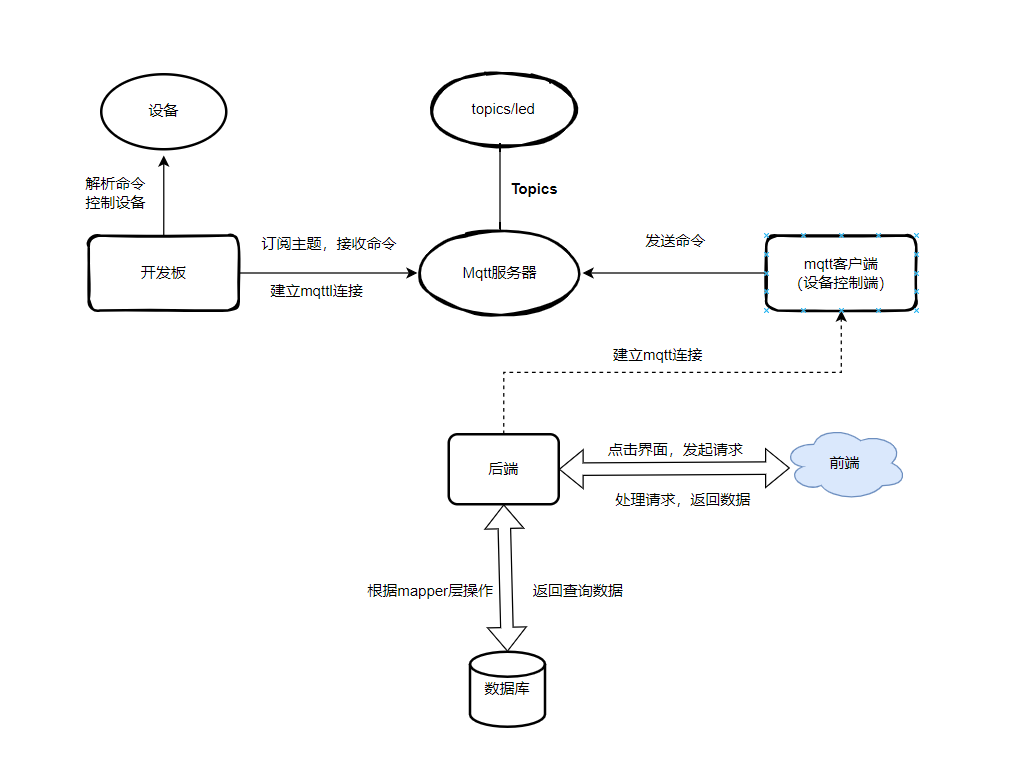
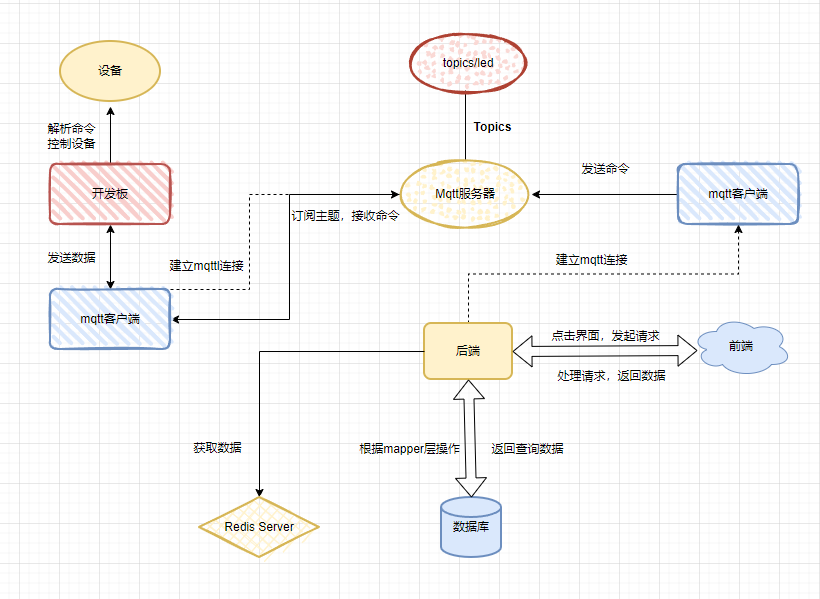
improve readme.md file

diff --git a/IotBackend/src/main/java/cn/edu/swjtu/service/impl/RecordServiceImpl.java b/IotBackend/src/main/java/cn/edu/swjtu/service/impl/RecordServiceImpl.java
@@ -53,7 +53,7 @@ public class RecordServiceImpl implements RecordService {
                     CommandInfo c = mapper.getUserNewestActivity(u.getUsername());
                     item.put("command",c.getCommand());
                     item.put("timestamp", c.getDate());
-                    item.put("summary",c.getOperator()+ " " + c.getCommand() + " " -m + c.getDeviceName());
+                    item.put("summary",c.getOperator()+ " " + c.getCommand() + " " + c.getDeviceName());
                 }catch (Exception e){
                     e.printStackTrace();
                 }

diff --git a/IotBackend/src/main/java/cn/edu/swjtu/config/OpenApiConfig.java b/IotBackend/src/main/java/cn/edu/swjtu/config/OpenApiConfig.java
@@ -1,0 +1,19 @@
+package cn.edu.swjtu.config;
+
+import io.swagger.v3.oas.models.OpenAPI;
+import io.swagger.v3.oas.models.info.Info;
+import org.springframework.context.annotation.Bean;
+import org.springframework.context.annotation.Configuration;
+
+@Configuration
+public class OpenApiConfig {
+
+    @Bean
+    public OpenAPI springOpenAPI() {
+        return new OpenAPI().info(new Info() //
+                .title("IECMS Lite API") //
+                .description("智能设备控制与管理系统API设计文档") //
+                .version("0.0.1"));
+    }
+
+}

diff --git a/README.md b/README.md
@@ -1,16 +1,31 @@
-## 项目需求
+## 项目背景
+随着互联网的日益发展，各类智能终端已遍布人们的日常生活。本项目致力于建立一个从嵌入式设备到互联网网页的实时控制链，旨在通过提供一系列可视化的用户接口以实现人们对各类嵌入式设备的控制。同时为建立一套更加贴合主流的智能家居打下一个基础。下面我将对本项目目前所具备的功能，运行的基本原理，开发工具的基本版本以及接口设计的基本原则等做一个简要的介绍。
 
-- 设备控制
-  - 设备开关
-  - 设置温度
-- 设备管理
-  - 告警
-  - 增删改查
-- 数据统计
-  - 统计图展示
-- 用户管理
-  - 增删改查
+## 项目基础功能
 
+- [x] 小组用户信息的查看
+- [x] 小组活动的情况查看，内含对设备的各类操作日志
+- [x] 小组设备的增删改查
+- [x] 小组设备的添加审核
+- [x] 实时监控查看
+- [x] 温湿度传感器阈值设置
+- [x] 关照传感器阈值设置
+- [x] LED灯控制
+- [x] 蜂鸣器控制
+- [x] 设备延时打开
+- [x] 设备延时关闭
+- [x] 设备基础模型展示（效果不佳）
+- [x] 设备地理位置显示
+- [x] 温湿度传感器数据采集
+- [x] 光照传感器数据采集
+- [x] 各类数据处理与图表展示
+- [x] 用户基础信息修改
+- [x] 用户各类操作信息展示，内含对设备的各类操作日志 
+- [x] 设备告警控制 
+- [ ] 设备建模
+- [ ] 设备监控视频rtsp推流
+- [ ] pcb绘制和制作
+- [ ] 更多设备添加
 
 ## 项目架构设计图
 
@@ -18,16 +33,19 @@
 
 ## MQTT消息路径设计
 
-|               设备               |             路径              |
-| :------------------------------: | :---------------------------: |
-|        LED灯上行数据路径         |      `devTopic/led/pub`       |
-|        LED灯下行数据路径         |      `devTopic/led/sub`       |
-|        蜂鸣器上行数据路径        |      `devTopic/beep/pub`      |
-|        蜂鸣器下行数据路径        |      `devTopic/beep/sub`      |
-| 光照传感器(`BH1750`)上行数据路径 |  `devTopic/lightSensor/pub`   |
-|     温湿度传感器上行数据路径     |    `devTopic/htSensor/pub`    |
-|      红外传感器上行数据路径      | `devTopic/infraredSensor/pub` |
-|      红外传感器下行数据路径      | `devTopic/infraredSensor/sub` |
+|               设备               |            路径            |
+| :------------------------------: | :------------------------: |
+|        LED灯上行数据路径         |     `devTopic/pub/led`     |
+|        LED灯下行数据路径         |     `devTopic/sub/led`     |
+|        蜂鸣器上行数据路径        |     `devTopic/pub/led`     |
+|        蜂鸣器下行数据路径        |     `devTopic/sub/led`     |
+| 光照传感器(`BH1750`)上行数据路径 | `devTopic/pub/lightSensor` |
+| 光照传感器(`BH1750`)上行数据路径 | `devTopic/sub/lightSensor` |
+|     温湿度传感器上行数据路径     |  `devTopic/pub/htSensor`   |
+|     温湿度传感器上行数据路径     |  `devTopic/sub/htSensor`   |
+|  其他设备上行数据路径（待添加）  | `devTopic/sub/deviceName`  |
+|  其他设备上行数据路径（待添加）  | `devTopic/pub/deviceName`  |
+
 
 ## MQTT中设备发送消息`json`格式设置
 
@@ -64,33 +82,226 @@ command:[
 
 通过这一步的封装，我们就可以在从前端网页界面对设备进行控制时，将对应的控制信息封装在数据中，当到达后端时在重新进行解析，`sub`或者`pub`的时候自动的获取或者发送所需要的数据。
 
-## 设备信息数据库设计
+## 数据库设计
 
-### led数据表设计规定
-|  名称  |   类型    |
-| :----: | :-------: |
-| status | vchar(32) |
+### user数据表设计规定
+|     名称      |    类型    |
+| :-----------: | :--------: |
+|   username    | vchar(30)  |
+| password_hash | vchar(512) |
+|    avatar     | vchar(100) |
+|     roles     | vchar(40)  |
+|   group_id    |    int     |
+|     email     | vchar(60)  |
+|      uid      |   bigint   |
 
-### 温湿度数据表设计规定
-|    名称    |   类型    |
-| :--------: | :-------: |
-| temperture |    int    |
-|  humidity  |    int    |
-|   status   | vchar(32) |
+### device数据表设计规定
+|    名称     |   类型    |
+| :---------: | :-------: |
+|     did     |    int    |
+|  group_id   |    int    |
+| deviceName  | vchar(32) |
+| insert_flag |    int    |
+|  longitude  |   float   |
+|  latitude   |   float   |
+|   creator   | vchar(60) |
+|    type     | vchar(40) |
+|    date     | datetime  |
+|   status    | vchar(8)  |
+
+更多详细设计请看项目对应数据库文件
 
 
-## 项目初步分工
+## 技术结构
 
-| 成员   | 任务                         |
-| ------ | ---------------------------- |
-| 白仕博 | 嵌入式，mqtt协议，前端，文档 |
-| 杨宇轩 | 后端 ，文档                  |
-| 周天伦 | 前端 ，文档                  |
-| 丁晨旭 | 前端 ，文档，嵌入式          |
+|          | 技术栈                                |
+| -------- | ------------------------------------- |
+| 前端     | `vue2,ElementUI,threejs,amap,echarts` |
+| 后端     | `springboot`                          |
+| 数据库   | `mysql8.0.35`                         |
+| 数据缓存 | `redis5.0.14.1`                       |
+| MQTT服务 | `emqx5.3.2`                           |
+| 嵌入式端 | `stm32f103c8t6,dht11,bh1750,beep,led` |
 
-## 后续功能开发
-1. 增加前端主界面展示功能，将设备，消息等用一个卡片或轮播图来展示，用户可从该界面直接跳转到对应的详情界面。
-2. 增加数据库的复杂性设计，当前数据库的设计还过于简单，建议增加对数据库复杂性的设计
-3. 增加对设备列表，设备动作等数据的查询功能。
-4. 增加设备监控画面展示功能
-5. 预警温湿度设置功能开发
+## `Api`设计
+
+### 用户登录请求
+POST /user/login
+
+##### 请求
+
+| 参数     | 说明     | 示例                                                             |
+| -------- | -------- | ---------------------------------------------------------------- |
+| username | 用户昵称 | echo                                                             |
+| password | 用户密码 | def823239cd714d6f18cda2a2b9e1369046125716c43d27a1256753ac72164b0 |
+
+##### 响应
+| 参数 | 说明                                 | 示例    |
+| ---- | ------------------------------------ | ------- |
+| code | 20000登录成功，20001错误             |         |
+| type | 本次请求是否成功,success/failure     | failure |
+| msg  | 本次请求携带的信息，显示指明成功出错 | success |
+| data | 请求返回的自定义数据信息             |         |
+
+### 用户信息请求
+GET /user/info
+
+##### 请求
+| 参数  | 说明     | 示例 |
+| ----- | -------- | ---- |
+| token | 识别用户 |      |
+
+
+##### 响应
+| 参数 | 说明                                             | 示例    |
+| ---- | ------------------------------------------------ | ------- |
+| code | 20000登录成功，20001错误                         |         |
+| type | 本次请求是否成功,success/failure                 | failure |
+| msg  | 本次请求携带的信息，显示指明成功出错             | success |
+| data | 请求返回的自定义数据信息，包括头像地址和用户名等 |         |
+
+### 设备信息请求
+GET device/all
+
+##### 请求
+| 参数    | 说明     | 示例 |
+| ------- | -------- | ---- |
+| pageNum | 请求页码 | 2    |
+
+##### 响应
+| 参数 | 说明                                 | 示例    |
+| ---- | ------------------------------------ | ------- |
+| code | 20000登录成功，20001错误             |         |
+| type | 本次请求是否成功,success/failure     | failure |
+| msg  | 本次请求携带的信息，显示指明成功出错 | success |
+| data | 该页所有设备信息                     |         |
+
+### 设备修改请求
+POST device/add
+
+##### 请求
+| 参数   | 说明               | 示例                                                                               |
+| ------ | ------------------ | ---------------------------------------------------------------------------------- |
+| Device | 待添加设备全部信息 | {deviceName: "fan", did: 3, longtitude: 122.23, latitude: 22.34, status: "on",...} |
+
+##### 响应
+| 参数 | 说明                                 | 示例    |
+| ---- | ------------------------------------ | ------- |
+| code | 20000登录成功，20001错误             |         |
+| type | 本次请求是否成功,success/failure     | failure |
+| msg  | 本次请求携带的信息，显示指明成功出错 | success |
+
+其他的同样，具体细节详见自动生成文档。
+
+### 在线查看
+
+接口使用 `Restful` 风格进行接口设计并利用 `Swagger` 进行接口文档的生成，其中在线接口文档的查看方式为：启动后端项目，在浏览器输入如下路径: `http://localhost:8080/swagger-ui/index.html)`，可以在该界面进行接口的测试。如下图所示
+
+![](./image/api1.png)
+
+![](./image/api2.png)
+
+![](./image/api3.png)
+
+![](./image/api4.png)
+
+![](./image/api5.png)
+
+
+
+## 模块化设计
+
+### 后端系统模块化
+
+如下图所示，在进行后端系统设计时，我们将所有的与前端有关的请求信息放置到了 `Controller` 层，其不负责处理数据，数据会向下传递到 `Service` 层，其利用 `Mappper` 层的方法处理前端请求并返回封装好的处理结果回到 `Controller` 层，最后返回给前端，一次请求处理结束。这样设计的好处在于，数据的处理和交互分开，互不影响。具体的细节做到了隐藏。
+
+![](./image/module-iotbackend.png)
+
+### 前端系统模块化
+
+在进行前端系统设计时，我们将整体逻辑大致分为了如下图所示的几个部分。首先是浏览器通过路由页面获取 `views` 层数据并进行对应的渲染。而用户通过 `views` 层展示的各类内容发出事件请求，前端就利用 `api` 中封装的具体方法去利用 `request` 层发出 `axios` 请求。并接收后端返回的结果。其中有一些数据比如用户姓名，头像，`token` 等需要全局处理的东西，统一用 `store` 做一个管理，这样即能保证数据的有效性也能提供全局的访问。
+
+![](./image/module-fronted.png)
+
+
+## 软件功能详解
+
+### 登录功能
+
+用户通过浏览器提供的交互界面输入帐号和密码，前端程序获取帐号和密码，进行表单校验，通过后利用 `axios` 发送 `post` 请求给后端，后端接收到该请求后，将数据向下层传递到 `service` 层，利用用户名从数据库中查找出密码，进行匹配，符合返回成功响应，否则失败响应，前端根据响应结果决定是否放行。
+
+
+### 设备管理
+
+#### 设备列表总览
+
+开始根据页码 `1` 发送一个 `get` 请求到后端，后端查询出第一页需要渲染的数据，默认为 `10` 个设备数据，以及总的设备个数。将其设置在统一返回体 `ResponseData` 的`data` 字段。然后返回给前端，前端拿到数据，通过返回状态码判断是否成功，成功通过表格进行渲染展示。当点击切换到不同的页码时，重新根据当前的页码发送请求，获取最新的数据进行相应的渲染。
+
+#### 设备详细信息查看
+
+用户点击设备列表总览中的更多按钮，通过路由携带设备的 `did` 跳转到对应的设备详情页，根据设备 `did` 发送一个 `get` 请求到后端，后端向下传递到 `service` ，并将查询到的数据进行设置，然后返回给前端，前端前数据渲染到对应的浏览器标签上。
+
+#### 删除设备
+
+用户点击对应的删除按钮，前端程序获取其 `did` ，一方面从该页的数据列表中删除该数据，另一方面携带着 `did` 发送一个 `delete` 请求到后端，后端同样传递到 `service` 层调用 `mapper` 层的接口方法将对应设备从数据库中删除并将结果返回给前端，前端将结果以通知的形式展示给用户。
+
+#### 修改设备信息
+
+用户点击对应的修改按钮，前端程序获取到对应的 `did`，去本页持有的 `tableData` 中找到对应的数据，然后将其对应的字段渲染到弹出的对话框中。用户修改后，点击确定按钮，前端获取此时的数据，发送一个 `post` 请求到后端，后端拿到数据，向下传递取出 `did`， 用 `mapper` 层的对应方法根据对应 `did` 将原始数据进行替换并返回对应的响应给前端，前端展示处理结果给用户。	
+
+#### 增加设备
+
+用户进入增加设备界面，输入对应的设备信息，点击增加按钮后，前端获取对应输入信息，发送一个 `post` 请求到后端，后端拿到数据，向下传递到 `service` 层。调用对应方法将该条数据插入到数据库中，并根据插入结果，返回对应的响应结果到前端，前端判断并将结果展示给用户。需要注意的是如果此时是非管理员用户插入那么我们此时做的插入操作是一个未插入，即将标志位`insert_flag`置为0，然后向`todolist`表中增加一个任务，待管理员成功审核后就将对应标志位置为1。
+
+#### 设备模型展示
+
+设备模型和设备详细信息查看放到了同一个页面，具体操作是通过设备 `did` 加载不同的设备，但是目前由于设备模型有限都是同一个模型。具体的渲染和操作通过 `Threejs` 来进行。
+
+#### 设备位置展示
+
+当我们从设备列表切换到设备的位置展示时，我们首先将对应的页面页码和设备数据存储到 `vuex` 管理的 `store` 中，当我们点击地图页面的显示位置的时候，我们从`vuex` 管理的 `store` 中取出对应的设备列表，用其对应的设备经纬度生成	 `marker`， 然后将其加载到 `map` 中。
+
+#### 设备位置删除
+
+点击页面删除坐标按钮，用 `splice` 方法将当前的 `marker` 全部移除。
+
+#### 设备动作
+
+设备动作按钮在设备详情页，目前为设备设定的动作主要有打开和关闭，另外在设置中也有延时打开和延时关闭。具体操作是，当用户点击按钮，用户获取对应的操作，进行赋值，发起一个 `post` 请求给后端，后端拿到数据，将此次动作的信息记录到数据库然后判断任务类型，如果是立即打开或关闭操作，那么直接通过 `mqtt` 协议发送一个消息到对应的设备（每个设备对应一个 `topic`）。如果是延时发送，那么首先将该次动作需要的信息放入到一个延时队列中，延时队列一直轮循判断，如果有任务到了其执行时间，那么取出该任务进行执行，执行完毕后移除该任务。如果我们用 `mqttx` 订阅相应的 `topic` 可以看到对应发送的消息，如果收到消息，那么我们的此次动作视为成功，反之视为失败。
+
+### 告警管理
+
+#### 告警信息列表展示
+
+此处的处理和设备列表的展示和处理类似，我们都是发送一个 `post` 请求到后端，后端查询数据并返回，前端进行对应的渲染。
+
+#### 数据图展示
+
+数据图展示用到的依赖主要是 `echarts` ，当我们从告警信息展示页面点击图表展示，我们用路由携带着对应的设备 `did` 然后根据 `did` 发送一个 `get` 请求得到其所有告警数据，取出温度和日期，用 `echarts` 对应方法进行设置即可。另此次主要展示了三个图，分别为数据的平均温度图，告警温度图和正常温度图。
+
+### 设备阈值参数修改
+
+在后端中我们需要去判断当前拿到的数据是否为超过阈值上限的温度，根据判断的结果去发送报警信号，在此处我们制作了一个对应的设置界面来进行设置，用户选择对应的设备，其中设备根据其类型分为三类，温湿度传感器，光照传感器以及其他设备，只有传感器才能对其进行阈值设置。设置好对应的参数之后，我们发送对应的`post`请求到后端，修改数据库中存储的对应字段值并返回处理结果即可。
+
+### 用户信息修改
+
+用户可以修改个人密码，前端界面通过弹窗获取用户的输入，传入后端，后端首先根据用户名查询密码，如密码匹配则更新，否则返回密码错误信息，封装进统一返回结构体中，返回给前端，前端根据具体结果将信息展示给用户。其中设计到用户头像的问题，我们此处所做的处理是将其放到了前端项目的对应文件夹下，然后前端项目去引入对应的路径即可实现图片的回显。
+
+### 实时监控
+
+此模块主要用于监控设备，对设备的事实状态做一个视频的展示，但是由于目前的技术有限，具体细节仍在进一步完善中。
+
+## 项目启动参数配置
+
+### 前端
+
+```
+npm i
+npm run dev
+```
+
+### 后端
+
+首先新建数据库 `iiot` ,用户名可以自定义但是要和配置文件相同, 然后用 `IDEA` 连接数据库，运行 `iiot.sql` 脚本，进行表的建立和初始数据的插入，点击运行即可。
+
+下载`redis`，并启动`redis-server`,至此，项目配置启动完毕。
